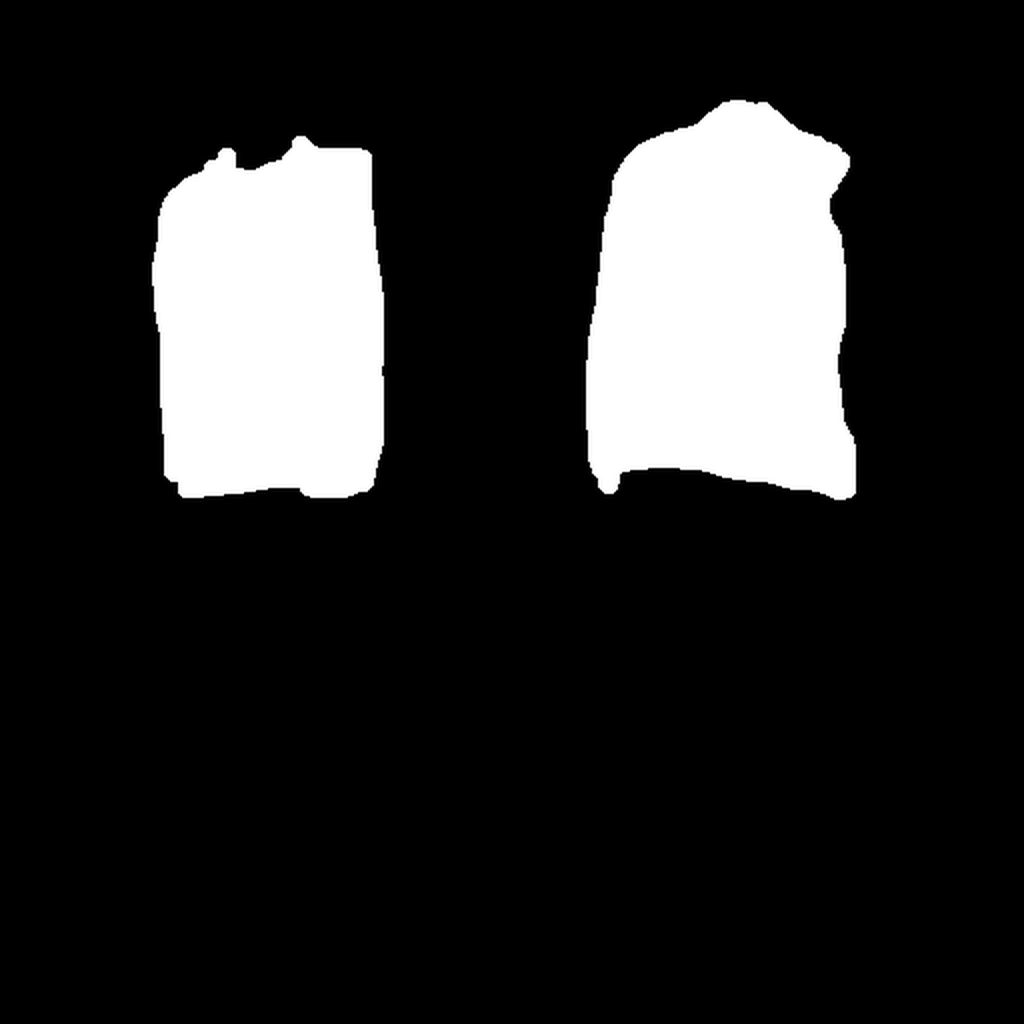
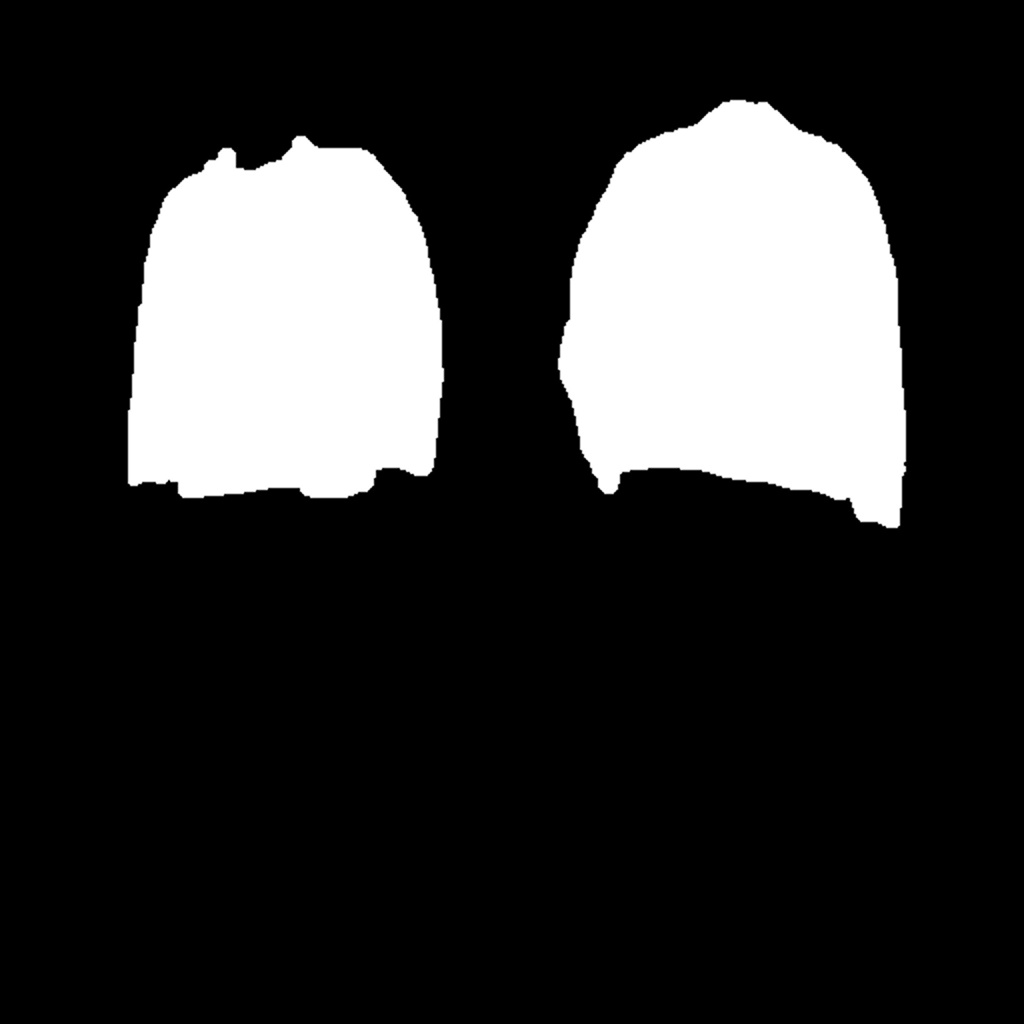
fix 1868 upper mask

diff --git a/test_caption_models/test_remove_garment.py b/test_caption_models/test_remove_garment.py
@@ -98,8 +98,8 @@ with open(osp.join(base_dir, json_fn), 'r') as f:
 for scan in scans:
     print(f"Testing scan {scan['scan_id']}")
     scan_id = str(scan['scan_id'])
-    #if '1584' not in scan_id:
-    #    continue
+    if '1868' not in scan_id:
+       continue
     prompts = scan["prompts"]
     image = load_image(osp.join(base_dir, 'images', view, scan_id + '.png'))
 
@@ -147,8 +147,8 @@ os.makedirs(results_dir, exist_ok=True)
 for scan in scans:
     print(f"Testing scan {scan['scan_id']}")
     scan_id = str(scan['scan_id'])
-    #if '1584' not in scan_id:
-    #    continue
+    if '1868' not in scan_id:
+       continue
     prompts = scan["prompts"]
     image = load_image(osp.join(base_dir, 'images', view, scan_id + '.png'))
 
